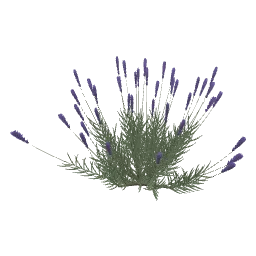
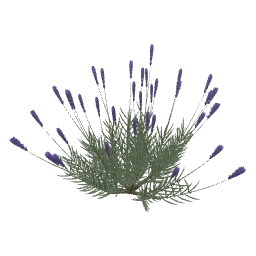
feat(templates): the lavender's woody stems grow from a spiral
The 11–18 woody stems no longer branch off a 2.3 cm crown stem that only
anchored them. `spiral` gives their points at the golden angle over the
same height and `branch_from_points` grows them, 0.7 times as thick as
the stub was, still thickening with time. The curves of alpha run over
the spiral from 0 to 1 instead of the stub from 0.1 to 0.9, and the
flowering stems read the age of their woody stem as its place among the
stems.

Refs #490

Changed region(s): [[0.0312, 0.1562, 0.9688, 0.8438], [0.125, 0.4375, 0.1875, 0.5]]

diff --git a/packages/runtime/templates/index.ts b/packages/runtime/templates/index.ts
@@ -62,7 +62,7 @@ const ABOUT: Record<string, About> = {
   },
   lavender: {
     species: 'Lavandula angustifolia (English lavender)',
-    notes: 'A short woody crown with 11–18 woody stems, each with up to 4 upright flower stems of '
+    notes: '11–18 woody stems from a spiral, each with up to 4 upright flower stems of '
       + 'linear leaves and a spike of 110 florets, and a short leafy side shoot.'
   },
   sage: {

diff --git a/docs/PLANT_TEMPLATES.md b/docs/PLANT_TEMPLATES.md
@@ -239,7 +239,7 @@ Family Lamiaceae.
 
 **Structure:** An evergreen dome, 40–60 cm high including the flowers. A woody base branches into dense leafy shoots that form a low grey-green mound. The leaves are opposite and decussate (each pair is turned 1.5708 rad to the next). They are linear, about 2–5 cm × 2–5 mm (more than 10:1), with margins rolled under (_revolute_), and crowded toward the base. From the mound rise many long, bare, unbranched flowering stems, 10–35 cm above the foliage. Each ends in a slender spike 2–8 cm long of stacked flower whorls, with the lowest whorls spaced further apart.
 
-**Template:** A short woody crown branches into 11–18 woody stems at the golden angle. An `alpha -> curve` sets how far they rise: the lowest lie 0.2 rad above the ground and are the longest (16 cm), the ones in the middle of the crown stand at 1.05 rad and are about half as long, so the shoots start all over a low frame instead of at one point.
+**Template:** 11–18 woody stems grow from the points of a `spiral` at the golden angle, 1.8 cm from the lowest to the highest. An `alpha -> curve` sets how far they rise: the lowest lie 0.2 rad above the ground and are the longest (16 cm), the ones in the middle stand at 1.05 rad and are about half as long, so the shoots start all over a low frame instead of at one point.
 
 Every woody stem has five places for a shoot, from 30 % of its length to its tip. The four upper ones are flower stems. An `alpha -> curve` into the branch `rotation` turns each of them up around the woody stem, a little to alternating sides (the turns add up from branch to branch, so the curve holds the differences). Their `angle` is the angle of their woody stem above the ground, which `path_info` parent position gives through the same curve, plus how far they lean out: 0.5–0.95 rad on the lowest woody stems, 0.17 rad in the middle. So every flower stem stands up whatever its woody stem does, the outer ones lean out and the inner ones are upright, and the spikes end on a dome. Before, the flower stems went on in the direction of their woody stems and splayed almost flat. A weak negative gravity lets them arch up a little. The first place is the branch that always points to the side: a short leafy shoot without flowers that turns up, the skirt of the mound. A `random` through a step curve into the `growth` decides which places grow a shoot at all, 55–95 % of them by seed.
 
@@ -247,7 +247,7 @@ The lower 40 % of a flower stem carries 14–24 linear leaves at 1.5708 rad step
 
 **Per seed:** one `habit` from an upright plant with long flower stems to a low, wide cushion with short ones sets the length of the flower stems (1 to 1.5 times 30–36 cm) and how far the outer ones lean out. Apart from it, the size of the whole plant, the number of woody stems, how many places grow a shoot, the length of the spike and the hues of leaves and florets differ.
 
-**Colours:** The crown and the woody stems are grey-brown, the flower stems grey-green. The leaves are grey-green, one shade per seed. The florets are lavender with a dusky calyx at their base, one hue per seed between lavender blue and purple.
+**Colours:** The woody stems are grey-brown, the flower stems grey-green. The leaves are grey-green, one shade per seed. The florets are lavender with a dusky calyx at their base, one hue per seed between lavender blue and purple.
 
 ## Maidenhair Fern: _Adiantum raddianum_ (delta maidenhair)
 
